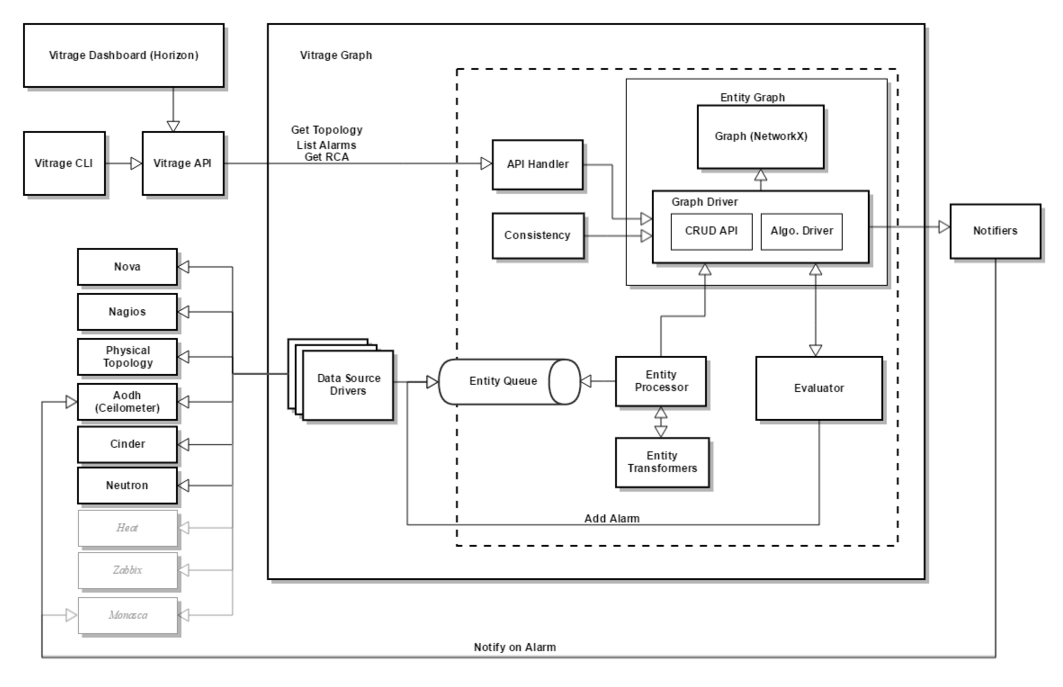
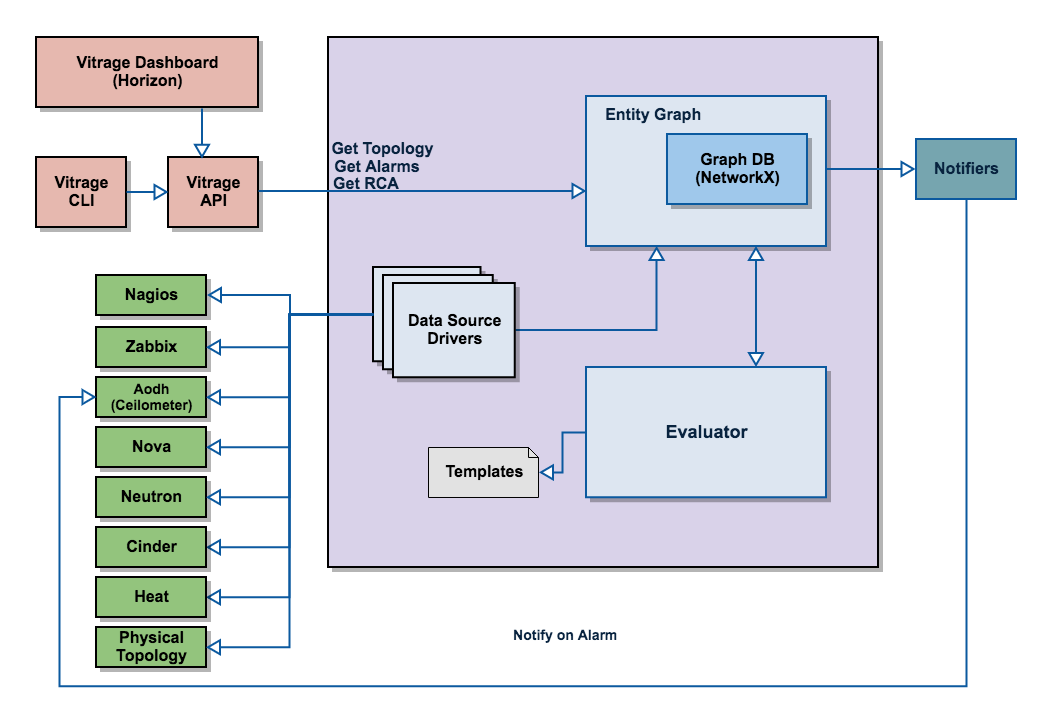
Documentation updates

diff --git a/doc/source/index.rst b/doc/source/index.rst
@@ -3,23 +3,43 @@
    You can adapt this file completely to your liking, but it should at least
    contain the root `toctree` directive.
 
-Welcome to vitrage's documentation!
-===================================
+Welcome to Vitrage documentation!
+=================================
 
-Contents:
+Vitrage is the OpenStack RCA (Root Cause Analysis) service for organizing, analyzing and expanding OpenStack alarms & events, yielding insights regarding the root cause of problems and deducing their existence before they are directly detected.
+
+
+High Level Functionality
+------------------------
+
+* Physical-to-Virtual entities mapping
+
+* Deduced alarms and states (i.e., raising an alarm or modifying a state based on analysis of the system, instead of direct monitoring)
+
+* Root Cause Analysis (RCA) for alarms/events
+
+* Horizon plugin for the above features
+
+
+Developer Guide
+---------------
 
 .. toctree::
-   :maxdepth: 2
+   :maxdepth: 1 
 
-   readme
-   installation
-   usage
-   contributing
+   vitrage-first_steps
+   vitrage-api
+   vitrage-template-format
+   installation-and-configuration
 
-Indices and tables
-==================
+Design Documents
+----------------
 
-* :ref:`genindex`
-* :ref:`modindex`
-* :ref:`search`
+.. toctree::
+   :maxdepth: 1 
+
+   vitrage-graph-design
+   scenario-evaluator
+   vitrage-use-cases
+   add-new-datasource
 

diff --git a/README.rst b/README.rst
@@ -2,9 +2,9 @@
 Vitrage
 =======
 
-The OpenStack RCA Engine
+The OpenStack RCA Service
 
-Vitrage is the OpenStack RCA (Root Cause Analysis) Engine for organizing, analyzing and expanding OpenStack alarms & events, yielding insights regarding the root cause of problems and deducing the existence of problems before they are directly detected.
+Vitrage is the OpenStack RCA (Root Cause Analysis) Service for organizing, analyzing and expanding OpenStack alarms & events, yielding insights regarding the root cause of problems and deducing the existence of problems before they are directly detected.
 
 Enabling Vitrage in DevStack
 ----------------------------

diff --git a/doc/source/installation-and-configuration.rst b/doc/source/installation-and-configuration.rst
@@ -22,3 +22,6 @@ Configuration
 * `Resource State Configuration <https://github.com/openstack/vitrage/blob/master/doc/source/resource-state-config.rst>`_
 
 * `Alarm State Configuration <https://github.com/openstack/vitrage/blob/master/doc/source/alarm-state-config.rst>`_
+
+* `Zabbix Configuration <https://github.com/openstack/vitrage/blob/master/doc/source/zabbix_vitrage.rst>`_
+

diff --git a/doc/source/vitrage-api.rst b/doc/source/vitrage-api.rst
@@ -22,7 +22,7 @@ Overview
 ********
 **This document describes the Vitrage API v1.**
 
-**The Vitrage API provides a RESTful JSON interface for interacting with Vitrage Engine.**
+**The Vitrage API provides a RESTful JSON interface for interacting with Vitrage Service.**
 
 List Versions
 ^^^^^^^^^^^^^

diff --git a/doc/source/vitrage-graph-design.rst b/doc/source/vitrage-graph-design.rst
@@ -9,7 +9,6 @@ Vitrage Graph Design
 
 Main Components
 ===============
-**Note:** The gray datasources will not be implemented in Mitaka
 
 Graph
 -----
